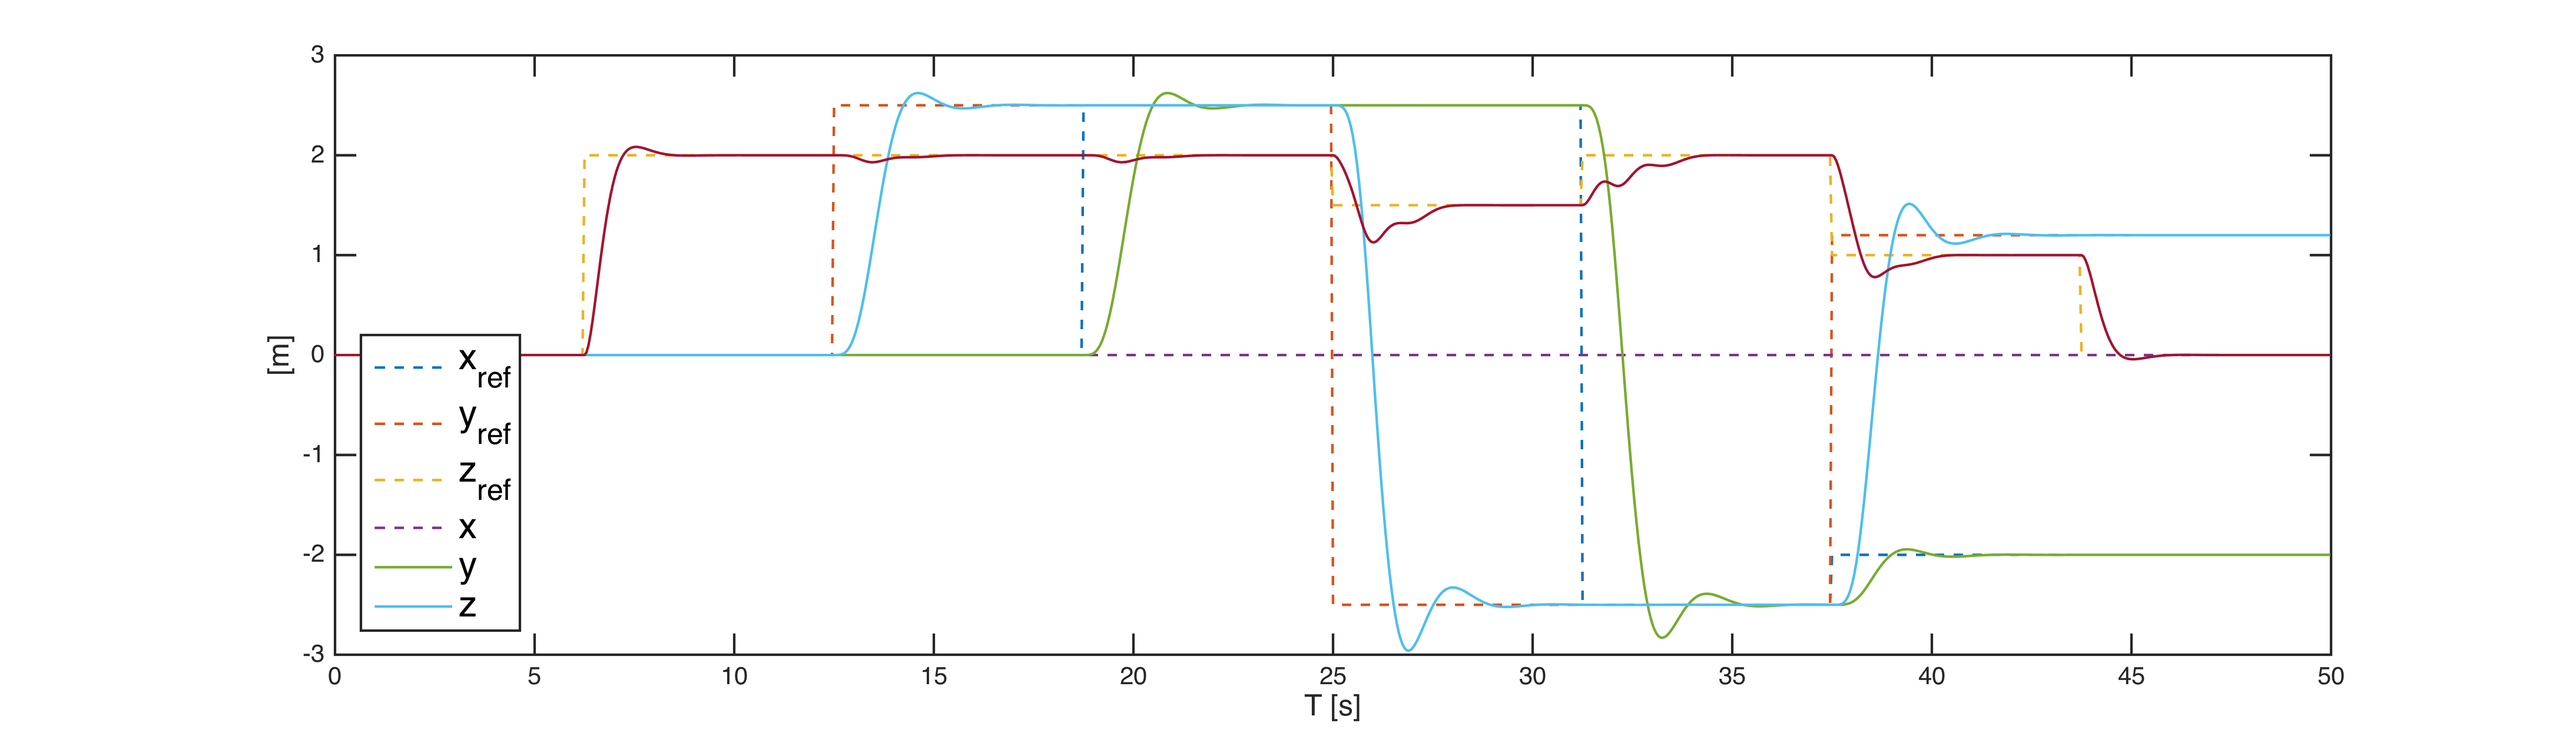
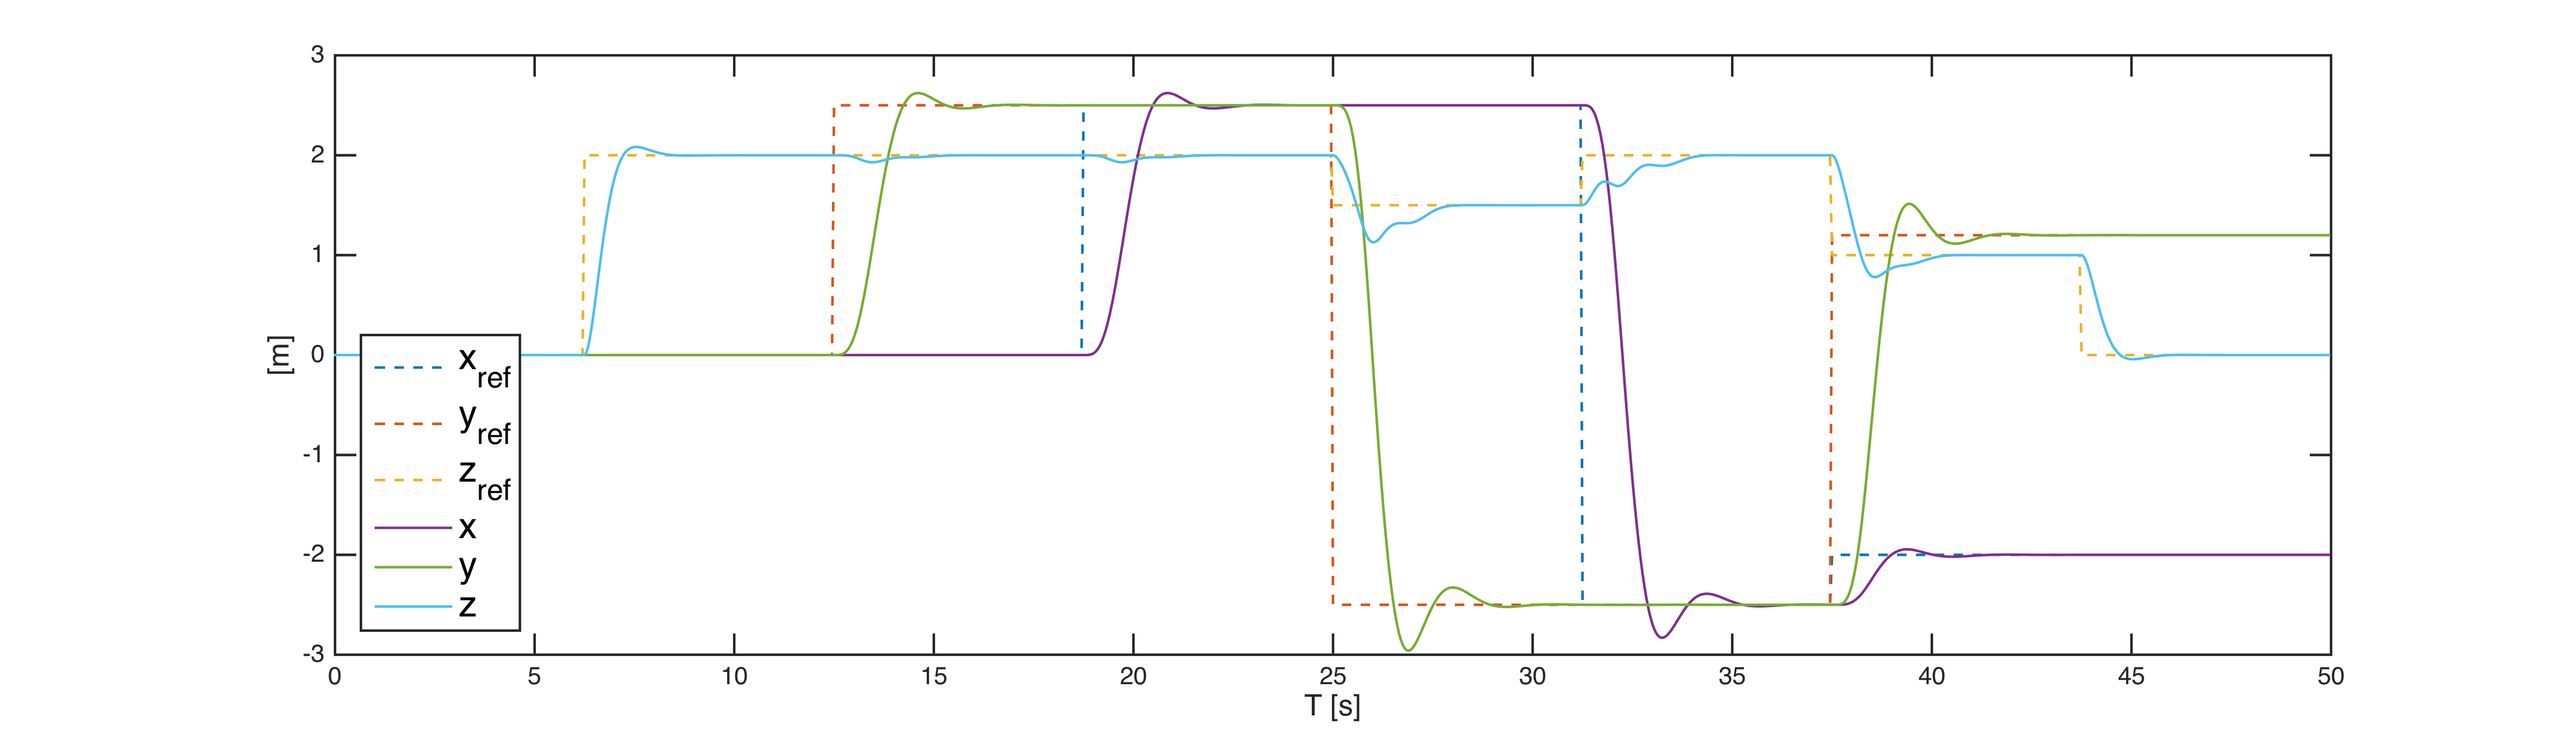
some old commits

diff --git a/LQR/lqg_tracking.m b/LQR/lqg_tracking.m
@@ -1,58 +1,56 @@
-close all
+close all;
 
-%Constructing the Augmented system with the first 3 outputs only (number of
-%states is 12+3 = 15
+%For a square system, we only use outputs x,y,z and psi
+% If we use x,y,z and phi or x,y,z and theta, the matrix big_A is singular
+big_A = [A_d - eye(nx), B_d; 
+        C_d(1:3,:), D_d(1:3,:);
+        C_d(6,:), D_d(6,:)];
 
-big_A = [A_d  zeros(nx,3) ;
-       -C_d(1:3,:) eye(3)];
-big_B = [B_d ; -D_d(1:3,:)];
+big_b = [zeros(nx,4);
+        eye(4)];
+big_N = inv(big_A)*big_b;
 
-big_nx = nx+3; % Number of states of the augmented system
-
-% Checking the controlabillity of the Augmented system
-disp('Rank of the controllability matrix of the augmented system:');
-rank(ctrb(big_A,big_B))
+N_x = big_N(1:nx,:); % x_ss = N_x * ref
+N_u = big_N(nx+1:end,:); % u_ss = N_u * ref
 
 load 'references_ss.mat';
-[K,~] = size(refs_ss);
+[I,~] = size(refs_ss);
+refs_ss = [refs_ss, zeros(I,1)];
 M = 125;
 T_s = 0.05;
-Q_i = diag([1e0*ones(1,3),1e0*ones(1,3),1e3*ones(1,3),1e0*ones(1,3),1e0*ones(1,2),1e4]);
-R_i = 1e1*eye(nu);
+Q = diag([10,10,1e5,1*ones(1,nx-3)]);
+R = eye(nu);
 
 % Computing the feedback matrix of the augmented system
-[big_K,S,~] = dlqr(big_A, big_B, Q_i, R_i);
-K_s = big_K(:,1:nx);
-K_i = big_K(:,nx+1:end);
+[K,S,~] = dlqr(A_d, B_d, Q, R);
 
-U_vector = zeros(K*M,nu);
-X_vector = zeros(K*M,nx);
-X_k_vector = zeros(K*M,nx);
-Y_vector = zeros(K*M,ny);
-ref_vector = zeros(K*M,3);
+U_vector = zeros(I*M,nu);
+X_vector = zeros(I*M,nx);
+X_k_vector = zeros(I*M,nx);
+Y_vector = zeros(I*M,ny);
+ref_vector = zeros(I*M,3);
 
 % initial state
 x = x0_quadcopter;
-x_i = refs_ss(1,:)'; %integral states
 x_k = x; % kalman filter estimated states 
 
-for k=1:K
+for k=1:I
     for m=1:M
-        u = -K_s*x_k-K_i*x_i;
+        r = refs_ss(k,:)'; % reference 
+        u = -K*(x_k-N_x*r)+N_u*r;
         y = C_d*x;
         [~,X]=ode113(@(t,xt)ffun([xt;u+u_eq*ones(nu,1)]),[0,T_s],x);
         x = X(end,:)';
         x_k = A_k*x_k + B_k*[u; y]; % state estimates 
-        x_i = x_i + refs_ss(k,:)'-y(1:3);
         U_vector((k-1)*M+m,:) = u';
         X_vector((k-1)*M+m,:) = x';
         Y_vector((k-1)*M+m,:) = y';
-        ref_vector((k-1)*M+m,:)=refs_ss(k,:);
+        ref_vector((k-1)*M+m,:)=refs_ss(k,1:3);
         X_k_vector((k-1)*M+m,:) = x_k';
     end 
 end
 
-T=T_s*(0:M*K-1);
+T=T_s*(0:M*I-1);
 
 figure
 plot(T,ref_vector);
@@ -65,7 +63,7 @@ xlabel('T [s]')
 figure
 plot3(Y_vector(:,1),Y_vector(:,2),Y_vector(:,3));
 hold on
-for k=1:K
+for k=1:I
     plot3(refs_ss(k,1),refs_ss(k,2),refs_ss(k,3),'ro-');
 end
 legend({'quadcopter','reference'},'FontSize',18);

diff --git a/LQR/finitehorizonlqr_discrete.m b/LQR/finitehorizonlqr_discrete.m
@@ -1,8 +1,9 @@
 close all
-M = 500;
+M = 1000;
 T_s = 0.05;
-Q = diag([1,1,10,1*ones(1,nx-3)]);
-R = 10*eye(nu);
+Q = diag([1,1,100,1*ones(1,nx-3)]);
+%Q = eye(nx);
+R = eye(nu);
 S =Q;
 
 U_vector = zeros(M,nu);
@@ -11,8 +12,8 @@ Y_vector = zeros(M,ny);
 
 % initial state
 x = x0_quadcopter;
-x(1:3) = 14;
-% x(1:2) = 18;
+x(1:3) = 10;
+%x(1:2) = 18;
 % x(4:6) = 10; 
 
 % solve the Riccati ODE backwards in time
@@ -21,14 +22,14 @@ for k=M:-1:1
     sol(k,:) = reshape(S,1,nx*nx); %store S_k+1 for iteration k
     S = riccati_diffeq(S,A_d,B_d,Q,R);
 end
-options = odeset('RelTol',1e-13,'AbsTol',1e-16);
+%options = odeset('RelTol',1e-13,'AbsTol',1e-16);
 for k=1:M
     S = reshape(sol(k,:),nx,nx);
     K = inv(R+B_d'*S*B_d)*B_d'*S*A_d;
     u = -K*x;
     
     y = C*x;
-    [~,X]=ode113(@(t,xt)ffun([xt;u+u_eq*ones(nu,1)]),[0,T_s],x,options);
+    [~,X]=ode113(@(t,xt)ffun([xt;u+u_eq*ones(nu,1)]),[0,T_s],x);
     x = X(end,:)';
     
     U_vector(k,:) = u';

diff --git a/LQR/test_riccati.m b/LQR/test_riccati.m
@@ -1,0 +1,28 @@
+S=Q;
+K=inv(R+B_d'*S*B_d)*B_d'*S*A_d;
+diff_s = zeros(M,1);
+diff_k = zeros(M,1);
+for k=M:-1:1
+    K_old = K;
+    S_old = S;
+    S = riccati_diffeq(S,A_d,B_d,Q,R);
+    K = inv(R+B_d'*S*B_d)*B_d'*S*A_d;
+    diff_k(k) = norm(K-K_old);
+    diff_s(k) = norm(S-S_old);
+end
+
+f1=figure()
+plot(diff_k);
+xlabel('Time step k','FontSize',13)
+ylabel('||K_k - K_{k-1}||','FontSize',13)
+
+set(f1,'PaperPositionMode','auto');
+print(f1,'riccati_k','-dpng','-r300');
+
+f2=figure()
+plot(diff_s);
+xlabel('Time step k','FontSize',13)
+ylabel('||S_k - S_{k-1}||','FontSize',13) 
+
+set(f2,'PaperPositionMode','auto');
+print(f2,'riccati_s','-dpng','-r300');

diff --git a/LQR/kalman.m b/LQR/kalman.m
@@ -2,8 +2,9 @@
 % Kalman Filter
 %****************************************************
 
-R_k = diag([2.5e-5*ones(1,3), 7.57e-5*ones(1,3)]); % Covariance matrix measurement noise
-Q_k  = diag([1*ones(1,3),1e3*ones(1,3),1*ones(1,6)]);   % Covariance matrix process noise
+%R_k = diag([2.5e-5*ones(1,3), 7.57e-5*ones(1,3)]); % Covariance matrix measurement noise
+R_k = diag([1e-5*ones(1,3), 1e-5*ones(1,3)]);
+Q_k  = 1e-5*diag([1*ones(1,3),1e3*ones(1,3),1*ones(1,6)]);   % Covariance matrix process noise
 G = eye(nx);        % Matrix that is multiplied with process noise in state equation
 
 % Compute Gain matrix

diff --git a/LQR/plotfigures.m b/LQR/plotfigures.m
@@ -1,7 +1,7 @@
 close all
 
 f1 = figure('Position', [1, 500, 1050, 300]);
-plot(T,ref_vector,'--');
+plot(T,ref_vector(:,1:3),'--');
 hold on
 plot(T,Y_vector(:,1:3));
 legend({'x_{ref}','y_{ref}','z_{ref}','x','y','z'},'FontSize',15,'Location','southwest');
@@ -42,6 +42,6 @@ f6 = figure('Position', [1, 500, 1050, 300]);
 plot(T,X_k_vector(:,4:6));
 hold on
 plot(T,X_vector(:,4:6),'--');
-legend({'\phi_k','\tau_k','\psi_k','\phi','\tau','\psi'},'FontSize',15);
+legend({'v_x_k','v_y_k','v_z_k','v_x','v_y','v_z'},'FontSize',15);
 xlabel('T [s]','FontSize',12)
 ylabel('[rad]','FontSize',12)

diff --git a/LQR/savefigures.m b/LQR/savefigures.m
@@ -1,7 +1,7 @@
 % don't forget to edit names
 
-method = 'lqg';
-refmethod = '';
+method = 'lqr';
+refmethod = 'zerodesign';
 extra = '';
 
 set(f1,'PaperPositionMode','auto');
@@ -16,4 +16,4 @@ print(f4,strcat(method,'_',refmethod,'_',extra,'control'),'-dpng','-r300');
 set(f5,'PaperPositionMode','auto');
 print(f5,strcat(method,'_',refmethod,'_',extra,'xyz'),'-dpng','-r300');
 set(f6,'PaperPositionMode','auto');
-print(f6,strcat(method,'_',refmethod,'_',extra,'angles'),'-dpng','-r300');
+print(f6,strcat(method,'_',refmethod,'_',extra,'v'),'-dpng','-r300');

diff --git a/LQR/ffun.m b/LQR/ffun.m
@@ -8,7 +8,7 @@ v_z=state(6); phi = state(7); theta=state(8); psi=state(9); w_x=state(10);
 w_y=state(11); w_z=state(12);
 u1=input(1); u2=input(2); u3=input(3); u4=input(4);
 
-m = 0.5;% + 0.1; %adding an extra mass (payload) to test robustness
+m = 0.5; % + 0.1; %adding an extra mass (payload) to test robustness
 L = 0.25;
 k = 3 * 10^(-6);
 b = 1 * 10^(-7);
